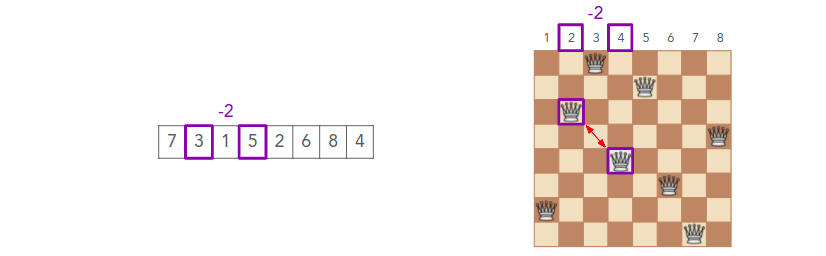
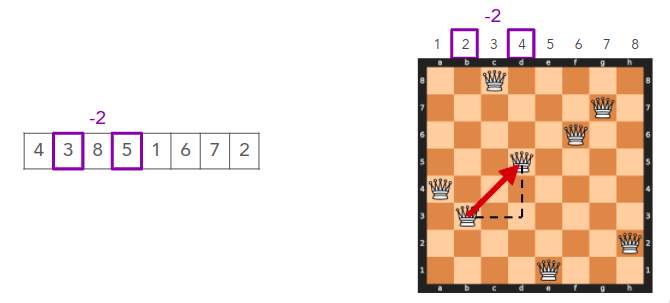
Rename to queens gambit and update images
Rename gambit to ambit

Update NB images

Update NB genetic algorithm name

Add colored chessboard

Add colored chessboard

diff --git a/queens_gambit.py b/queens_gambit.py
@@ -10,7 +10,7 @@ from genetic_algorithm.algorithm import (
 from genetic_algorithm.utils import view_chessboard
 
 # Instantiate the GA to solve the N-Queens problem
-genetic_algorithm = GeneticAlgorithm(
+queens_ambit = GeneticAlgorithm(
     fitness=fitness_func,
     selection=roulette_selection,
     crossover=ordered_crossover,
@@ -48,7 +48,7 @@ if __name__ == "__main__":
     args = parser.parse_args()
 
     # Run the evolution
-    best_solution = genetic_algorithm.run_evolution(
+    best_solution = queens_ambit.run_evolution(
         pop_size=args.pop_size,
         individual_length=args.individual_length,
         fitness_limit=args.fitness_limit,

diff --git a/README.md b/README.md
@@ -3,7 +3,7 @@
 Companion project for the talk: Genetic Algorithm from Scratch in Python @ PyCon Italia 2022.
 
 <div style="text-align:center">
-<img src="https://github.com/AnghileriDavide/PyCon22/blob/e6a96623097c9cd4869703811fcf73087ebc35fd/img/chessboard.png?raw=true" 
+<img src="https://github.com/AnghileriDavide/PyCon22/blob/master/img/chessboard_53172864.png?raw=true" 
 alt="8x8 Chessboard with 8 Queens" width="200">
 </div>
 
@@ -19,7 +19,7 @@ poetry install
 
 then run the following command to execute the genetic algorithm solving the N-queens problem:
 ```bash
-python3 -m n_queens_solver.py
+python3 -m queens_ambit.py
 ```
 
 Optional arguments:
